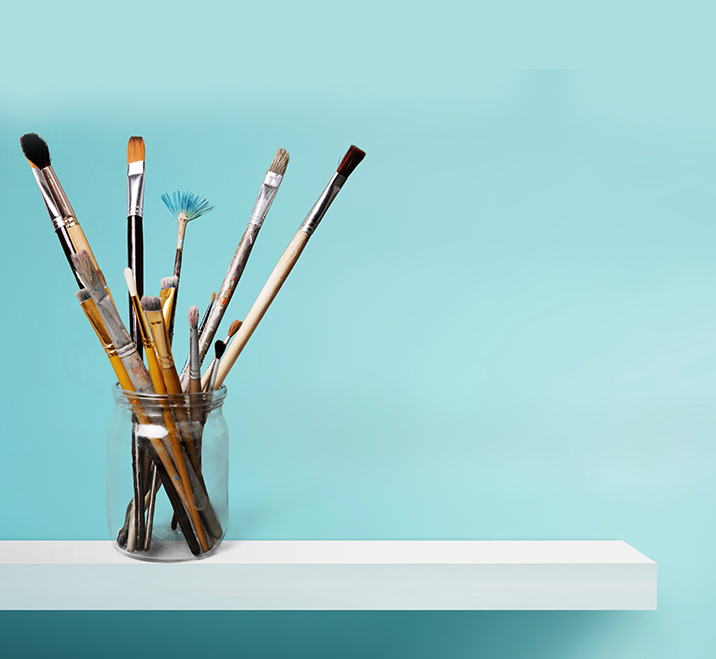
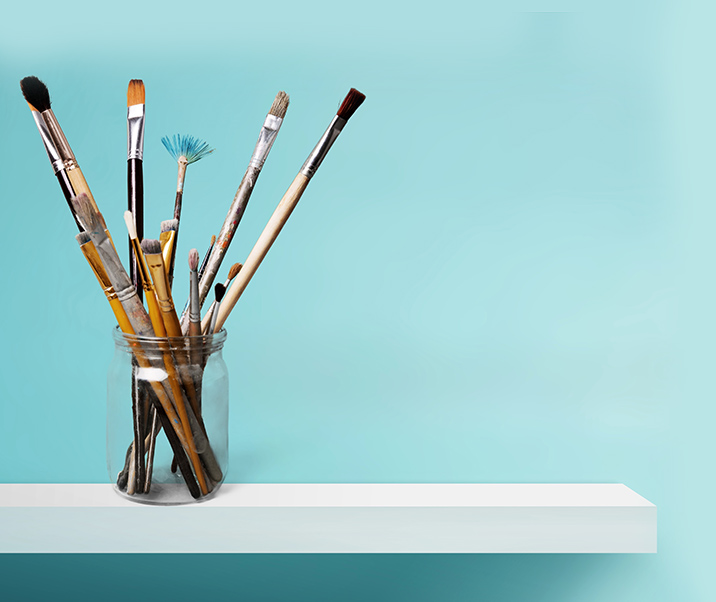
v4

Changed region(s): [[0.0, 0.0897, 0.9218, 0.8671], [0.0, 0.897, 0.9218, 0.9269]]

diff --git a/unit_7/css/style.css b/unit_7/css/style.css
@@ -112,31 +112,31 @@ nav: hover{
     padding-left: 200px;
     padding-top: 150px;
 }
-
-#dentegra {
-   background-color: #ffffff;
-    float: center;
-    width: 1480px;
-    height: 400px;
+#exhibits {
+    background-color: #b9e5e6;
+    width: 100%;
+    height:602px;
     margin:0px; 
-    padding: 100px;
+    padding:0px;
 }
 
-#JPA {
-   background-color: #f2f2f2;
-    float: center;
-    width: 1480px;
-    height: 400px;
+#exhibits_paragraph {
+    background-color: none;
+    float:right;
+    width:400px;
+    height:229px;
     margin:0px; 
-    padding: 100px;
+    padding-top:150px;
+    padding-right:350px;
 }
-#other_skills {
-    background-color: #666666;
-    float: center;
-    width: 1480px;
-    height: 329px;
+
+#exhibits_image {
+    background-color: none;
+    float:left;
+    width:837px;
+    height:602px;
     margin:0px; 
-    padding: 100px
+    padding:0px
 }
 
 #to_connect {

diff --git a/unit_7/index.html b/unit_7/index.html
@@ -50,14 +50,26 @@
 		</div>
 	</section>	
 
-	<section id="other_skills">
-		<h1>Art Exhibits</h1>
-		<ul>
-			<li>Crystal Gallery Hotel Whitcomb, San Francisco,CA</li>
-			<li>1995 CHS Art HSBC, Makati Philippines</li>
-			<li>2000 Underground Benpress Building, Ortigas Philippines</li>
-		</ul>
-		<a href="#" class="cta">See more work</a>
+	<section id="exhibits">
+
+		<div id="exhibits_image">
+			<img src="image/skill_image.jpg" alt="paint_brushes">
+		</div>
+
+		<div id="exhibits_box">
+			<div id="exhibits_paragraph"> 
+				<h1>Art Exhibits</h1>
+				<ul>
+				<li>Crystal Gallery Hotel Whitcomb, San Francisco,CA</li>
+				<li>1995 CHS Art HSBC, Makati Philippines</li>
+				<li>2000 Underground Benpress Building, Ortigas Philippines</li>
+				</ul>
+				<a href="#" class="cta">See more work</a>
+		</div>
+	</section>
+
+
+
 	</section>
 	<section id="to_connect">
 		<h2>Contact</h2>
